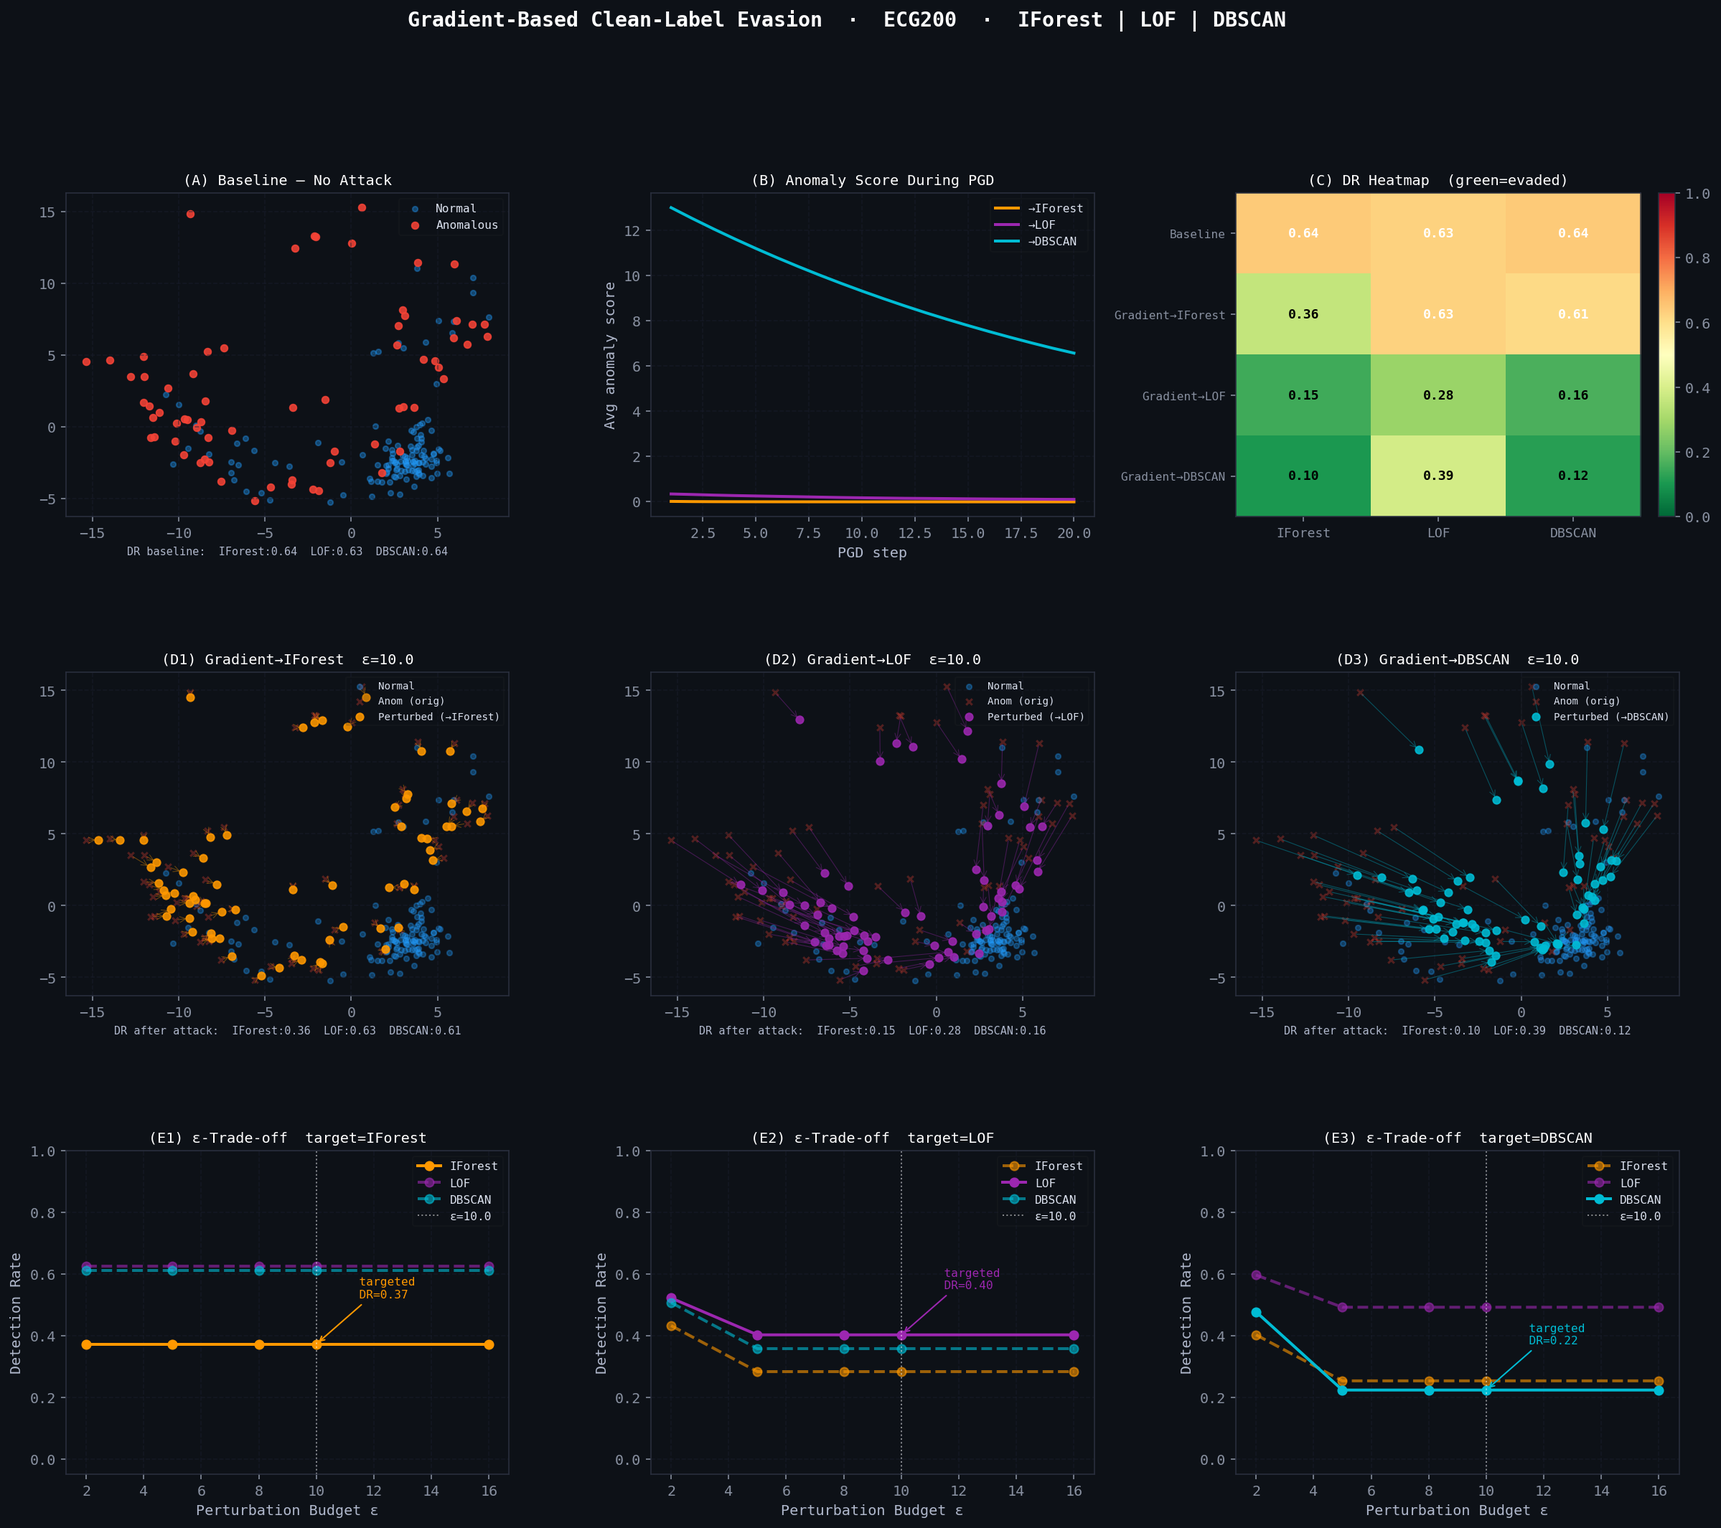
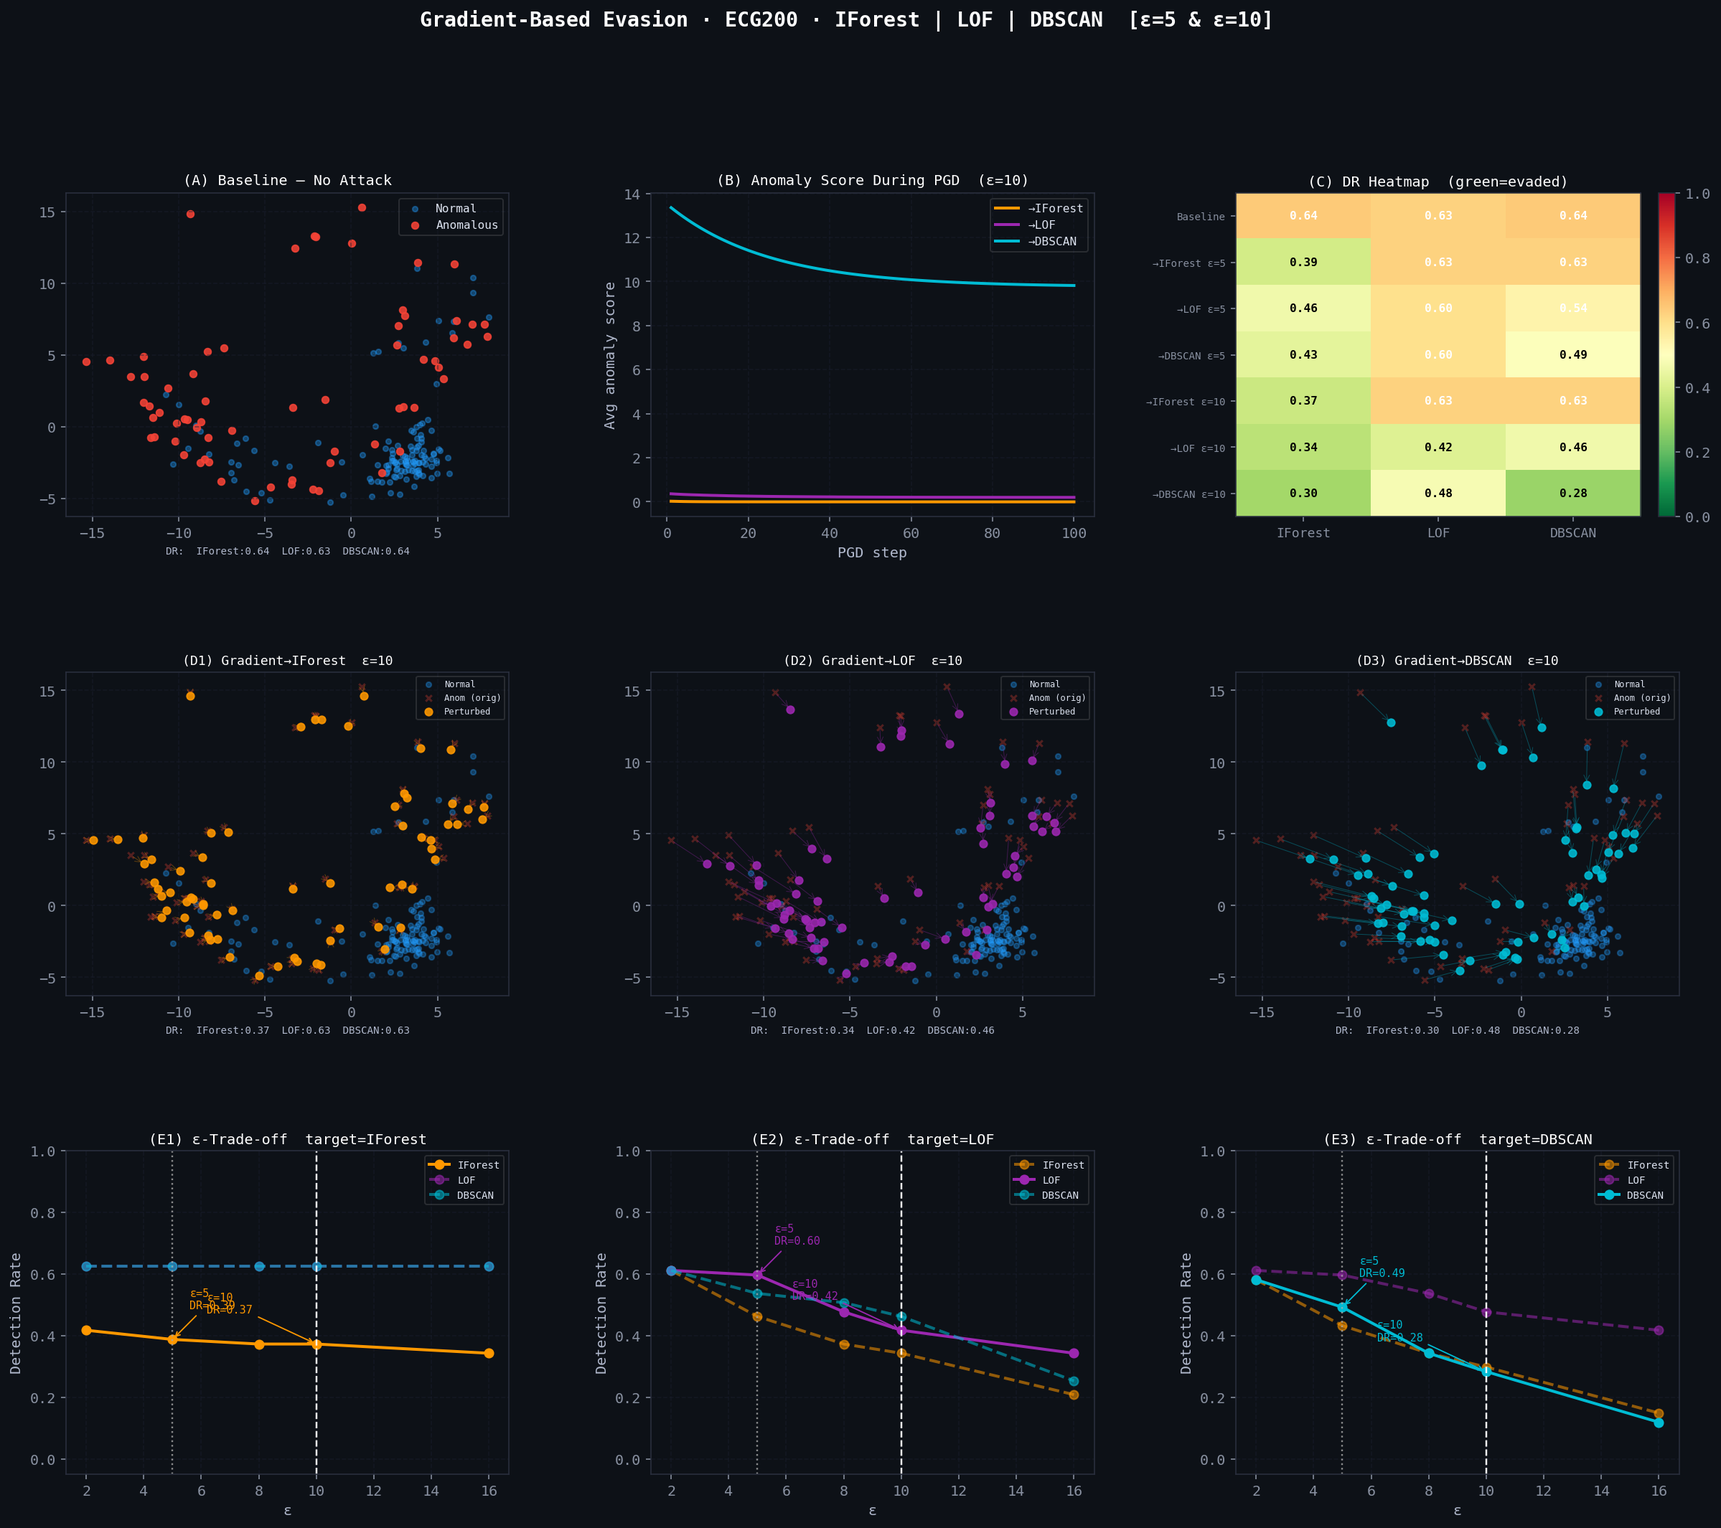
also mark eps=5

diff --git a/ecg_grad_evasion_v2.py b/ecg_grad_evasion_v2.py
@@ -1,0 +1,303 @@
+import numpy as np
+import matplotlib.pyplot as plt
+import matplotlib.gridspec as gridspec
+import warnings, pandas as pd
+from scipy.io import arff
+from sklearn.cluster import DBSCAN
+from sklearn.ensemble import IsolationForest
+from sklearn.neighbors import LocalOutlierFactor, NearestNeighbors
+from sklearn.preprocessing import StandardScaler
+from sklearn.decomposition import PCA
+
+warnings.filterwarnings("ignore")
+np.random.seed(42)
+
+DET_COLORS = {"IForest": "#FF9800", "LOF": "#9C27B0", "DBSCAN": "#00BCD4"}
+C_NORMAL, C_ANOM = "#2196F3", "#F44336"
+BG = "#0d1117"
+
+plt.rcParams.update({
+    "figure.facecolor": BG, "axes.facecolor": BG, "axes.edgecolor": "#2a2f3e",
+    "axes.labelcolor": "#b0b8cc", "xtick.color": "#8890a0", "ytick.color": "#8890a0",
+    "text.color": "#dde3f0", "grid.color": "#1a1f2e", "grid.linestyle": "--",
+    "grid.alpha": 0.5, "font.family": "monospace", "legend.framealpha": 0.15,
+})
+
+# ── Reload data & detectors (fast, no attack rerun) ───────────────────────────
+def load_ecg200(d="data/ECG200"):
+    def read(p):
+        data, _ = arff.loadarff(p)
+        df = pd.DataFrame(data)
+        df[df.columns[-1]] = df[df.columns[-1]].str.decode("utf-8")
+        return df.iloc[:,:-1].values.astype(float), df.iloc[:,-1].values.astype(int)
+    Xt,yt=read(f"{d}/ECG200_TRAIN.arff"); Xe,ye=read(f"{d}/ECG200_TEST.arff")
+    return np.vstack([Xt,Xe]), np.concatenate([yt,ye])
+
+X_raw, y = load_ecg200()
+scaler = StandardScaler(); X = scaler.fit_transform(X_raw)
+nm, am = y==1, y==-1
+X_normal, X_anom = X[nm], X[am]
+n_a, n_f = X_anom.shape
+
+ifo = IsolationForest(n_estimators=100, contamination=0.335, random_state=42).fit(X)
+lof = LocalOutlierFactor(n_neighbors=20, contamination=0.335, novelty=True).fit(X_normal)
+db  = DBSCAN(eps=3.5, min_samples=5).fit(X)
+nn_core = NearestNeighbors(n_neighbors=1).fit(X[db.core_sample_indices_])
+
+def s_ifo(Xq): return -ifo.decision_function(Xq)
+def s_lof(Xq): return -lof.decision_function(Xq)
+def s_db(Xq):  return nn_core.kneighbors(Xq)[0].ravel()
+DETECTORS = {"IForest": s_ifo, "LOF": s_lof, "DBSCAN": s_db}
+THRESH = {n: np.percentile(fn(X), 100*0.665) for n, fn in DETECTORS.items()}
+def dr(Xq, name): return (DETECTORS[name](Xq) > THRESH[name]).mean()
+
+# ── Re-run attacks at ε=5 and ε=10 ───────────────────────────────────────────
+def batch_fd_gradient(score_fn, Xv, delta=0.15):
+    N, F = Xv.shape; G = np.zeros((N, F))
+    for i in range(F):
+        Xp=Xv.copy(); Xp[:,i]+=delta
+        Xm=Xv.copy(); Xm[:,i]-=delta
+        G[:,i]=(score_fn(Xp)-score_fn(Xm))/(2*delta)
+    return G
+
+def pgd(score_fn, Xv, eps, steps=20, decay=0.96):
+    X0=Xv.copy(); Xp=Xv.copy()
+    lr = eps/steps*1.5
+    hist = []
+    for _ in range(steps):
+        G=batch_fd_gradient(score_fn, Xp)
+        Gn=np.linalg.norm(G,axis=1,keepdims=True).clip(min=1e-9)
+        Xp=Xp-lr*G/Gn
+        diff=Xp-X0; dist=np.linalg.norm(diff,axis=1,keepdims=True)
+        Xp=np.where(dist>eps, X0+eps*diff/dist, Xp)
+        lr*=decay; hist.append(score_fn(Xp).mean())
+    return Xp, hist
+
+EPS_VALS = [2, 5, 8, 10, 16]
+EPS5, EPS10 = 5.0, 10.0
+
+print("Running attacks at ε=5 and ε=10 …")
+X_atk5  = {}; X_atk10 = {}; score_histories = {}
+for name, fn in DETECTORS.items():
+    print(f"  {name} …", end="", flush=True)
+    X_atk5[name],  _    = pgd(fn, X_anom, EPS5, steps=100)
+    X_atk10[name], hist = pgd(fn, X_anom, EPS10, steps=100)
+    score_histories[name] = hist
+    print(" done")
+
+# ε-sweep (for trade-off curves)
+print("ε-sweep …")
+dr_sweep = {t: {d: [] for d in DETECTORS} for t in DETECTORS}
+for target, fn in DETECTORS.items():
+    for eps in EPS_VALS:
+        Xp, _ = pgd(fn, X_anom, eps, steps=100)
+        for det in DETECTORS:
+            dr_sweep[target][det].append(dr(Xp, det))
+
+# ── Summary table ─────────────────────────────────────────────────────────────
+print("\n" + "="*65)
+print("  DETECTION RATE SUMMARY")
+print("="*65)
+print(f"  {'Attack':25s}" + "".join(f"  {n:>10s}" for n in DETECTORS))
+print("  "+"-"*57)
+rows = {"Baseline": {n: dr(X_anom, n) for n in DETECTORS}}
+for t in DETECTORS:
+    rows[f"Grad→{t} ε=5"]  = {n: dr(X_atk5[t],  n) for n in DETECTORS}
+    rows[f"Grad→{t} ε=10"] = {n: dr(X_atk10[t], n) for n in DETECTORS}
+for rn, rd in rows.items():
+    print(f"  {rn:25s}" + "".join(f"  {rd[n]:10.3f}" for n in DETECTORS))
+print("="*65)
+
+# ══════════════════════════════════════════════════════════════════════════════
+# FIGURE 1 — Main 3×3: Baseline | Convergence | Heatmap
+#                      PCA ε=10 (×3)
+#                      ε-trade-off curves (×3)  with ε=5 AND ε=10 marked
+# ══════════════════════════════════════════════════════════════════════════════
+pca = PCA(n_components=2, random_state=42).fit(X)
+P   = lambda Xq: pca.transform(Xq)
+pn  = P(X_normal); pa = P(X_anom)
+
+fig = plt.figure(figsize=(20, 16), facecolor=BG)
+fig.suptitle(
+    "Gradient-Based Evasion · ECG200 · IForest | LOF | DBSCAN  [ε=5 & ε=10]",
+    fontsize=14, fontweight="bold", color="white", y=0.99)
+gs = gridspec.GridSpec(3, 3, figure=fig, hspace=0.48, wspace=0.32)
+
+def pca_panel(ax, Xpert, det_name, title):
+    pp = P(Xpert)
+    ax.scatter(*pn.T, c=C_NORMAL, s=13, alpha=0.35, label="Normal")
+    ax.scatter(*pa.T, c=C_ANOM,   s=18, alpha=0.30, marker="x", label="Anom (orig)")
+    ax.scatter(*pp.T, c=DET_COLORS[det_name], s=26, alpha=0.88,
+               label="Perturbed", zorder=4)
+    for o, p in zip(pa, pp):
+        ax.annotate("", xy=p, xytext=o,
+                    arrowprops=dict(arrowstyle="->", color=DET_COLORS[det_name],
+                                    lw=0.5, alpha=0.35))
+    ax.set_title(title, fontsize=9, color="white", pad=5)
+    ax.legend(fontsize=6, loc="upper right"); ax.grid(True)
+    dr_str = "  ".join(f"{n}:{dr(Xpert,n):.2f}" for n in DETECTORS)
+    ax.set_xlabel(f"DR:  {dr_str}", fontsize=7)
+
+# Row 0 ── baseline | convergence | heatmap
+ax = fig.add_subplot(gs[0,0])
+ax.scatter(*pn.T, c=C_NORMAL, s=13, alpha=0.4, label="Normal")
+ax.scatter(*pa.T, c=C_ANOM,   s=22, alpha=0.88, label="Anomalous")
+ax.set_title("(A) Baseline — No Attack", fontsize=10, color="white", pad=6)
+ax.legend(fontsize=8); ax.grid(True)
+bl = "  ".join(f"{n}:{dr(X_anom,n):.2f}" for n in DETECTORS)
+ax.set_xlabel(f"DR:  {bl}", fontsize=7)
+
+ax = fig.add_subplot(gs[0,1])
+for target, hist in score_histories.items():
+    ax.plot(range(1, len(hist)+1), hist, color=DET_COLORS[target], lw=2,
+            label=f"→{target}")
+ax.set_title("(B) Anomaly Score During PGD  (ε=10)", fontsize=10,
+             color="white", pad=6)
+ax.set_xlabel("PGD step"); ax.set_ylabel("Avg anomaly score")
+ax.legend(fontsize=8); ax.grid(True)
+
+# Heatmap — include both ε=5 and ε=10 rows
+ax = fig.add_subplot(gs[0,2])
+rlabels = (["Baseline"] +
+           [f"→{t} ε=5"  for t in DETECTORS] +
+           [f"→{t} ε=10" for t in DETECTORS])
+dlabels = list(DETECTORS.keys())
+hmap_rows = {"Baseline": {n: dr(X_anom,n) for n in DETECTORS}}
+for t in DETECTORS:
+    hmap_rows[f"→{t} ε=5"]  = {n: dr(X_atk5[t],  n) for n in DETECTORS}
+    hmap_rows[f"→{t} ε=10"] = {n: dr(X_atk10[t], n) for n in DETECTORS}
+mat = np.array([[hmap_rows[r][n] for n in dlabels] for r in rlabels])
+im = ax.imshow(mat, cmap="RdYlGn_r", vmin=0, vmax=1, aspect="auto")
+ax.set_xticks(range(len(dlabels))); ax.set_xticklabels(dlabels, fontsize=9)
+ax.set_yticks(range(len(rlabels))); ax.set_yticklabels(rlabels, fontsize=7)
+ax.set_title("(C) DR Heatmap  (green=evaded)", fontsize=10, color="white", pad=5)
+for i in range(len(rlabels)):
+    for j in range(len(dlabels)):
+        ax.text(j, i, f"{mat[i,j]:.2f}", ha="center", va="center", fontsize=8,
+                color="white" if mat[i,j]>0.5 else "black", fontweight="bold")
+plt.colorbar(im, ax=ax, fraction=0.046, pad=0.04)
+
+# Row 1 ── PCA scatter at ε=10 (one per detector)
+for col, target in enumerate(DETECTORS):
+    ax = fig.add_subplot(gs[1, col])
+    pca_panel(ax, X_atk10[target], target,
+              f"(D{col+1}) Gradient→{target}  ε=10")
+
+# Row 2 ── ε trade-off curves with BOTH ε=5 and ε=10 marked
+EPS_MARKS = {
+    5.0:  (":",  0.80, "#aaaaaa"),
+    10.0: ("--", 1.00, "white"),
+}
+for col, target in enumerate(DETECTORS):
+    ax = fig.add_subplot(gs[2, col])
+    for det in DETECTORS:
+        ax.plot(EPS_VALS, dr_sweep[target][det], "o-",
+                color=DET_COLORS[det], lw=2, ms=6, label=det,
+                linestyle="--" if det != target else "-",
+                alpha=0.55 if det != target else 1.0)
+    for eps_m, (ls, alpha, wcol) in EPS_MARKS.items():
+        if eps_m not in EPS_VALS: continue
+        ax.axvline(eps_m, color=wcol, lw=1.2, ls=ls, alpha=alpha)
+        idx_m = EPS_VALS.index(eps_m)
+        tv = dr_sweep[target][target][idx_m]
+        # alternate annotation side to avoid overlap
+        dx = 0.6 if eps_m == 5.0 else -3.8
+        dy = 0.10
+        ax.annotate(f"ε={int(eps_m)}\nDR={tv:.2f}",
+                    xy=(eps_m, tv),
+                    xytext=(eps_m + dx, tv + dy),
+                    fontsize=7.5, color=DET_COLORS[target],
+                    arrowprops=dict(arrowstyle="->",
+                                    color=DET_COLORS[target], lw=0.9))
+    ax.set_title(f"(E{col+1}) ε-Trade-off  target={target}",
+                 fontsize=10, color="white", pad=5)
+    ax.set_xlabel("ε"); ax.set_ylabel("Detection Rate")
+    ax.legend(fontsize=7); ax.grid(True); ax.set_ylim(-0.05, 1.0)
+
+plt.savefig("anomaly_results/grad_evasion/ecg200_gradient_evasion.png",
+            dpi=145, bbox_inches="tight", facecolor=BG)
+print("\n  Main figure saved.")
+
+# ══════════════════════════════════════════════════════════════════════════════
+# FIGURE 2 — Side-by-side: ε=5 vs ε=10 PCA for each detector (2 rows × 3 cols)
+# ══════════════════════════════════════════════════════════════════════════════
+fig2, axes2 = plt.subplots(2, 3, figsize=(18, 10), facecolor=BG)
+fig2.suptitle("ε=5 vs ε=10  —  PCA View per Target Detector  (ECG200)",
+              fontsize=13, fontweight="bold", color="white")
+fig2.patch.set_facecolor(BG)
+
+for col, target in enumerate(DETECTORS):
+    for row, (eps_val, X_atk) in enumerate([(EPS5, X_atk5), (EPS10, X_atk10)]):
+        ax = axes2[row, col]
+        pp = P(X_atk[target])
+        ax.scatter(*pn.T, c=C_NORMAL, s=12, alpha=0.30, label="Normal")
+        ax.scatter(*pa.T, c=C_ANOM,   s=16, alpha=0.28, marker="x",
+                   label="Anom (orig)")
+        ax.scatter(*pp.T, c=DET_COLORS[target], s=24, alpha=0.88,
+                   label=f"Perturbed ε={int(eps_val)}", zorder=4)
+        for o, p in zip(pa, pp):
+            ax.annotate("", xy=p, xytext=o,
+                        arrowprops=dict(arrowstyle="->",
+                                        color=DET_COLORS[target],
+                                        lw=0.5, alpha=0.30))
+        dr_t = dr(X_atk[target], target)
+        dr_all = "  ".join(f"{n}:{dr(X_atk[target],n):.2f}" for n in DETECTORS)
+        ax.set_title(f"→{target}  ε={int(eps_val)}  |  targeted DR={dr_t:.2f}",
+                     fontsize=10, color="white", pad=5)
+        ax.set_xlabel(f"All DRs:  {dr_all}", fontsize=7)
+        ax.legend(fontsize=7, loc="upper right"); ax.grid(True)
+        ax.set_facecolor(BG)
+
+plt.tight_layout()
+plt.savefig("anomaly_results/grad_evasion/ecg200_eps5_vs_eps10.png",
+            dpi=145, bbox_inches="tight", facecolor=BG)
+print("  ε=5 vs ε=10 comparison figure saved.")
+
+# ══════════════════════════════════════════════════════════════════════════════
+# FIGURE 3 — Signal overlay: original | ε=5 | ε=10 per detector
+# ══════════════════════════════════════════════════════════════════════════════
+fig3, axes3 = plt.subplots(3, 3, figsize=(18, 13), facecolor=BG)
+fig3.suptitle("ECG Signal — Original vs ε=5 vs ε=10 Perturbation  (5 samples each)",
+              fontsize=12, color="white")
+fig3.patch.set_facecolor(BG)
+
+t_axis   = np.arange(X_raw.shape[1])
+X_anom_r = scaler.inverse_transform(X_anom)
+X_norm_r = scaler.inverse_transform(X_normal)
+
+for col, target in enumerate(DETECTORS):
+    X5r  = scaler.inverse_transform(X_atk5[target])
+    X10r = scaler.inverse_transform(X_atk10[target])
+
+    for row, (Xr, eps_val, alpha_fill) in enumerate([
+            (X_anom_r, "orig", 0),
+            (X5r,  5,  0.10),
+            (X10r, 10, 0.10)]):
+        ax = axes3[row, col]
+        # reference normal
+        ax.plot(t_axis, X_norm_r[0], color=C_NORMAL, lw=1.4, ls="--",
+                alpha=0.55, label="Normal ref")
+        for k in range(5):
+            ax.plot(t_axis, X_anom_r[k], color=C_ANOM, lw=0.8,
+                    alpha=0.25, ls=":", label="Original" if k==0 else "_")
+            if eps_val != "orig":
+                ax.plot(t_axis, Xr[k], color=DET_COLORS[target], lw=1.1,
+                        alpha=0.85,
+                        label=f"ε={eps_val}" if k==0 else "_")
+                ax.fill_between(t_axis, X_anom_r[k], Xr[k],
+                                alpha=alpha_fill, color=DET_COLORS[target])
+        if eps_val == "orig":
+            lbl = f"{target} — Original anomalies"
+        else:
+            lbl = f"{target} — ε={eps_val}  (DR {dr(X_anom,target):.2f}→{dr(X_atk5[target] if eps_val==5 else X_atk10[target], target):.2f})"
+        ax.set_title(lbl, fontsize=9, color="white")
+        ax.set_facecolor(BG); ax.grid(True)
+        ax.legend(fontsize=7)
+        if row == 2: ax.set_xlabel("Time step")
+        if col == 0: ax.set_ylabel("Amplitude")
+
+plt.tight_layout()
+plt.savefig("anomaly_results/grad_evasion/ecg200_signal_overlay.png",
+            dpi=145, bbox_inches="tight", facecolor=BG)
+print("  Signal overlay figure saved.")
+print("\nAll done.")

diff --git a/ecg_eval_atk.py b/ecg_eval_atk.py
@@ -1,13 +1,3 @@
-"""
-Clean-Label Poisoning: Evading K-Means Anomaly Detection on ECG200
-===================================================================
-Goal: Perturb anomalous ECG samples (class -1) so they fall inside
-      the normal cluster, evading distance-based K-Means detection —
-      while keeping perturbations imperceptibly small (bounded by ε).
-
-Attack: Centroid Projection with ε-budget constraint
-"""
-
 import numpy as np
 import matplotlib.pyplot as plt
 import matplotlib.gridspec as gridspec
@@ -80,11 +70,8 @@ X_normal = X[normal_mask]
 X_anom   = X[anom_mask]
 
 
-# ══════════════════════════════════════════════════════════════════════════════
-# 2. BASELINE K-MEANS ANOMALY DETECTOR
-# ══════════════════════════════════════════════════════════════════════════════
 print("\n" + "─" * 60)
-print("STEP 2 – Fitting baseline K-Means (k=2) anomaly detector")
+print("STEP 2 - Fitting baseline K-Means (k=2) anomaly detector")
 print("─" * 60)
 
 scaler  = StandardScaler()
@@ -104,7 +91,6 @@ print(f"  Normal cluster id : {normal_cluster}  "
       f"(contains {max(c0_normal,c1_normal)} normals)")
 print(f"  Anomaly cluster id: {anom_cluster}")
 
-# Detection: a sample is flagged anomalous if it lands in the anomaly cluster
 y_pred_base = np.where(labels == normal_cluster, 1, -1)
 
 def detection_stats(y_true, y_pred, tag=""):
@@ -127,11 +113,8 @@ dist_before = np.linalg.norm(X_anom_scaled - normal_centroid, axis=1)
 print(f"  Avg distance (anom → normal centroid) BEFORE: {dist_before.mean():.4f}")
 
 
-# ══════════════════════════════════════════════════════════════════════════════
-# 3. CENTROID PROJECTION ATTACK
-# ══════════════════════════════════════════════════════════════════════════════
 print("\n" + "─" * 60)
-print("STEP 3 – Centroid Projection Attack")
+print("STEP 3 - Centroid Projection Attack")
 print("─" * 60)
 
 def centroid_projection_attack(X_victims_scaled, centroid, epsilon):
@@ -201,7 +184,7 @@ print(f"  Avg distance BEFORE: {dist_before.mean():.4f}")
 # 4.  PLOTS
 # ══════════════════════════════════════════════════════════════════════════════
 print("\n" + "─" * 60)
-print("STEP 4 – Generating plots")
+print("STEP 4 - Generating plots")
 print("─" * 60)
 
 pca = PCA(n_components=2, random_state=42)
